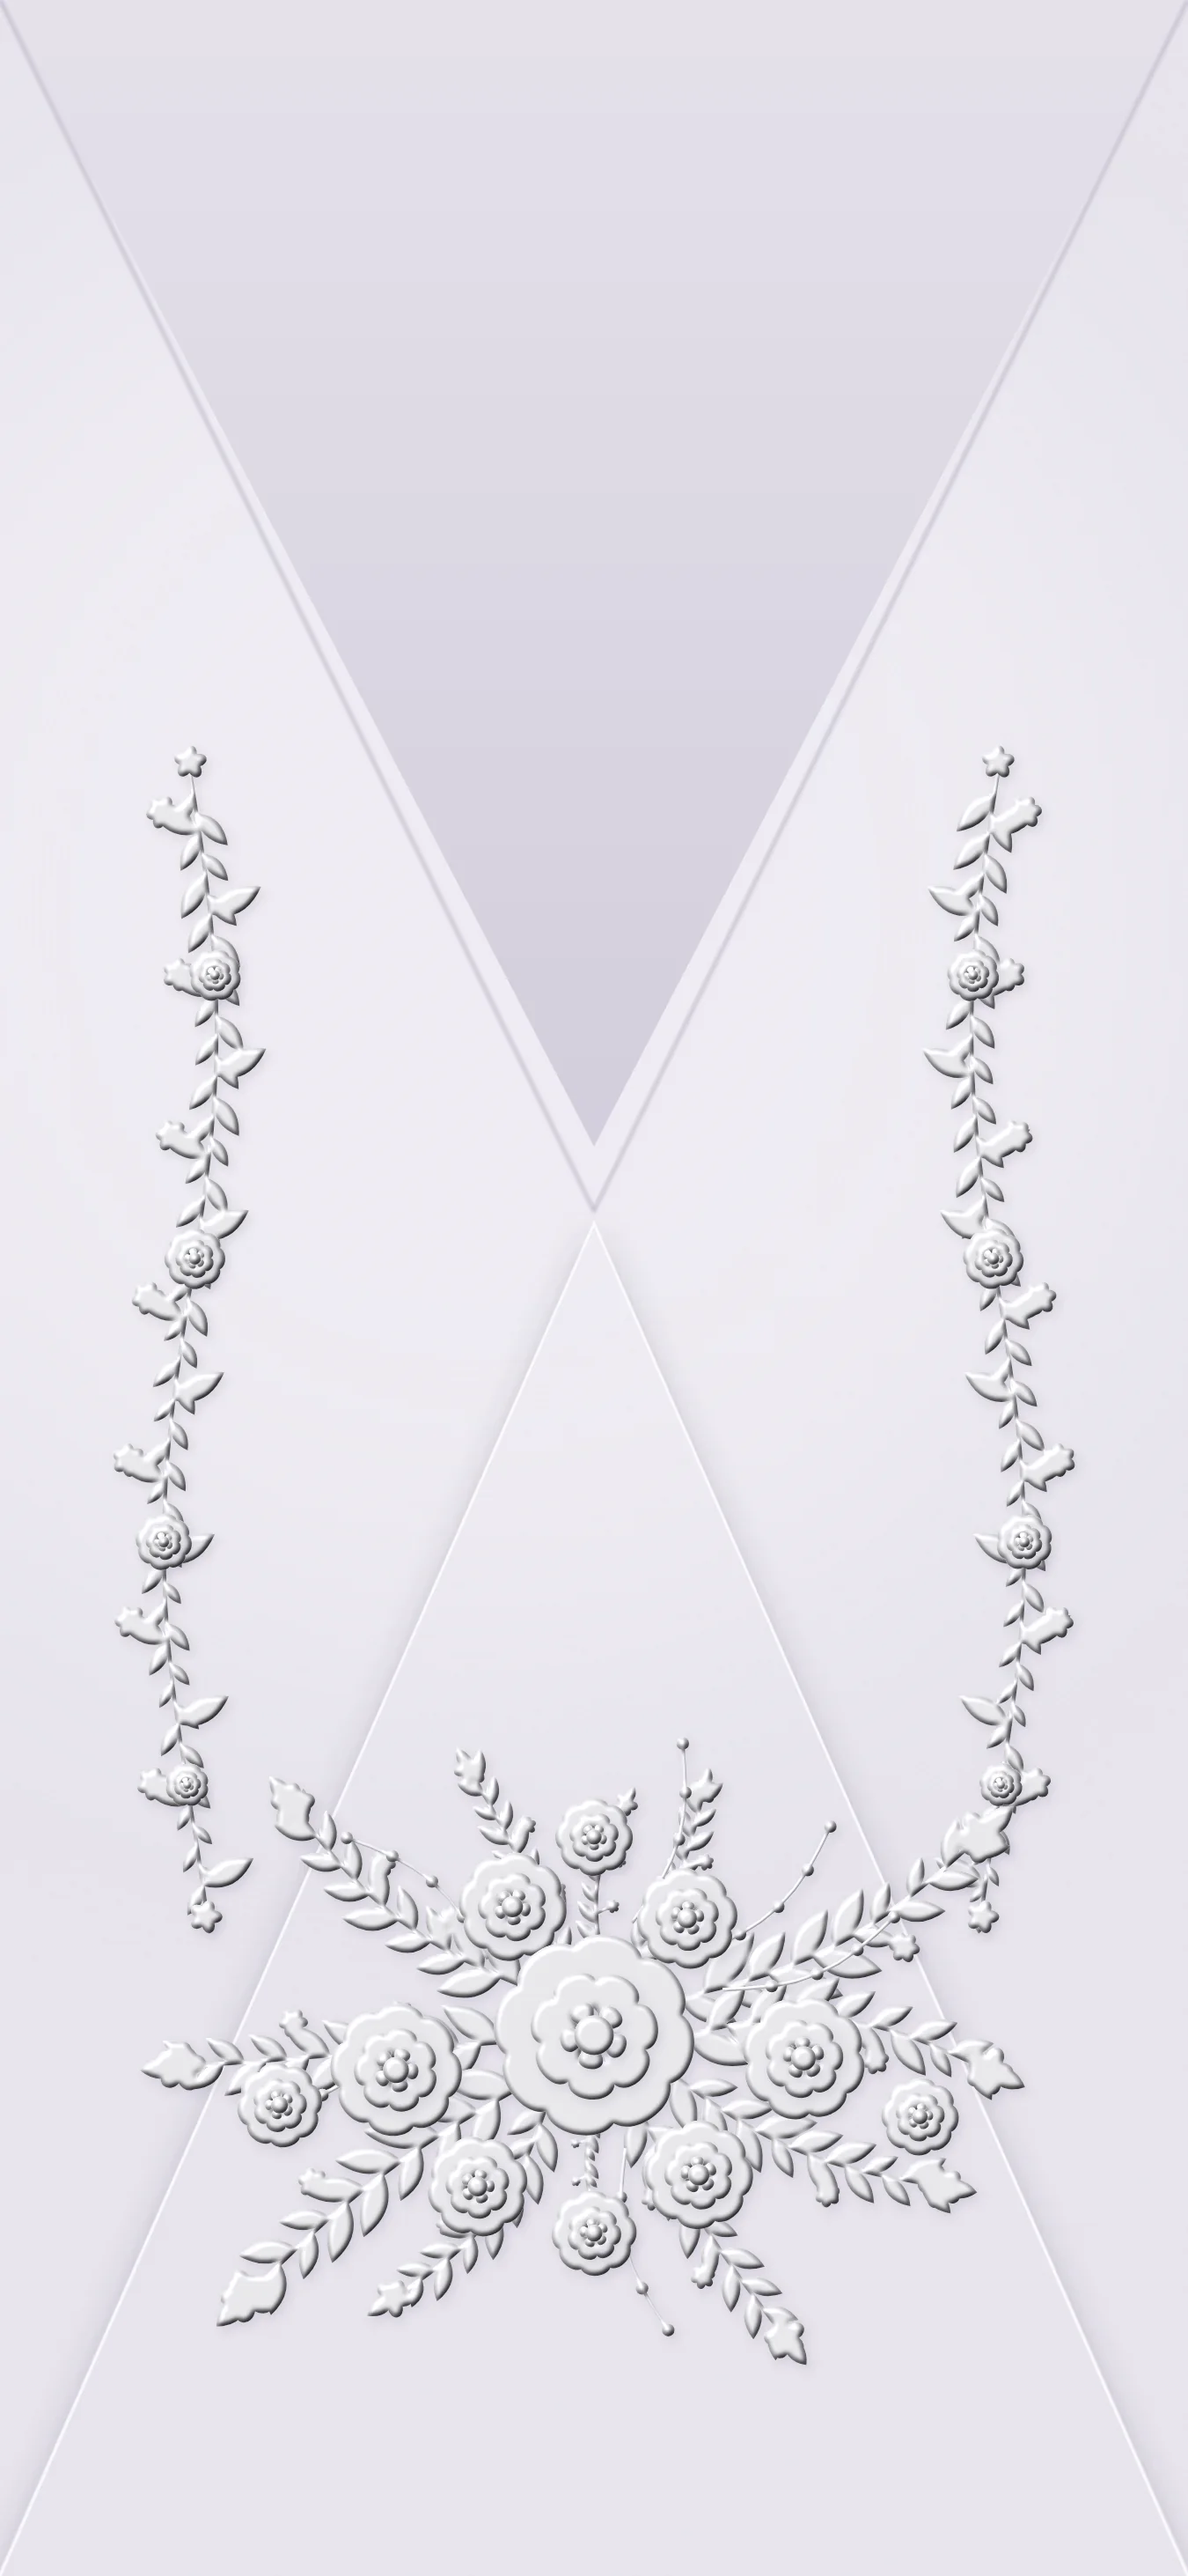
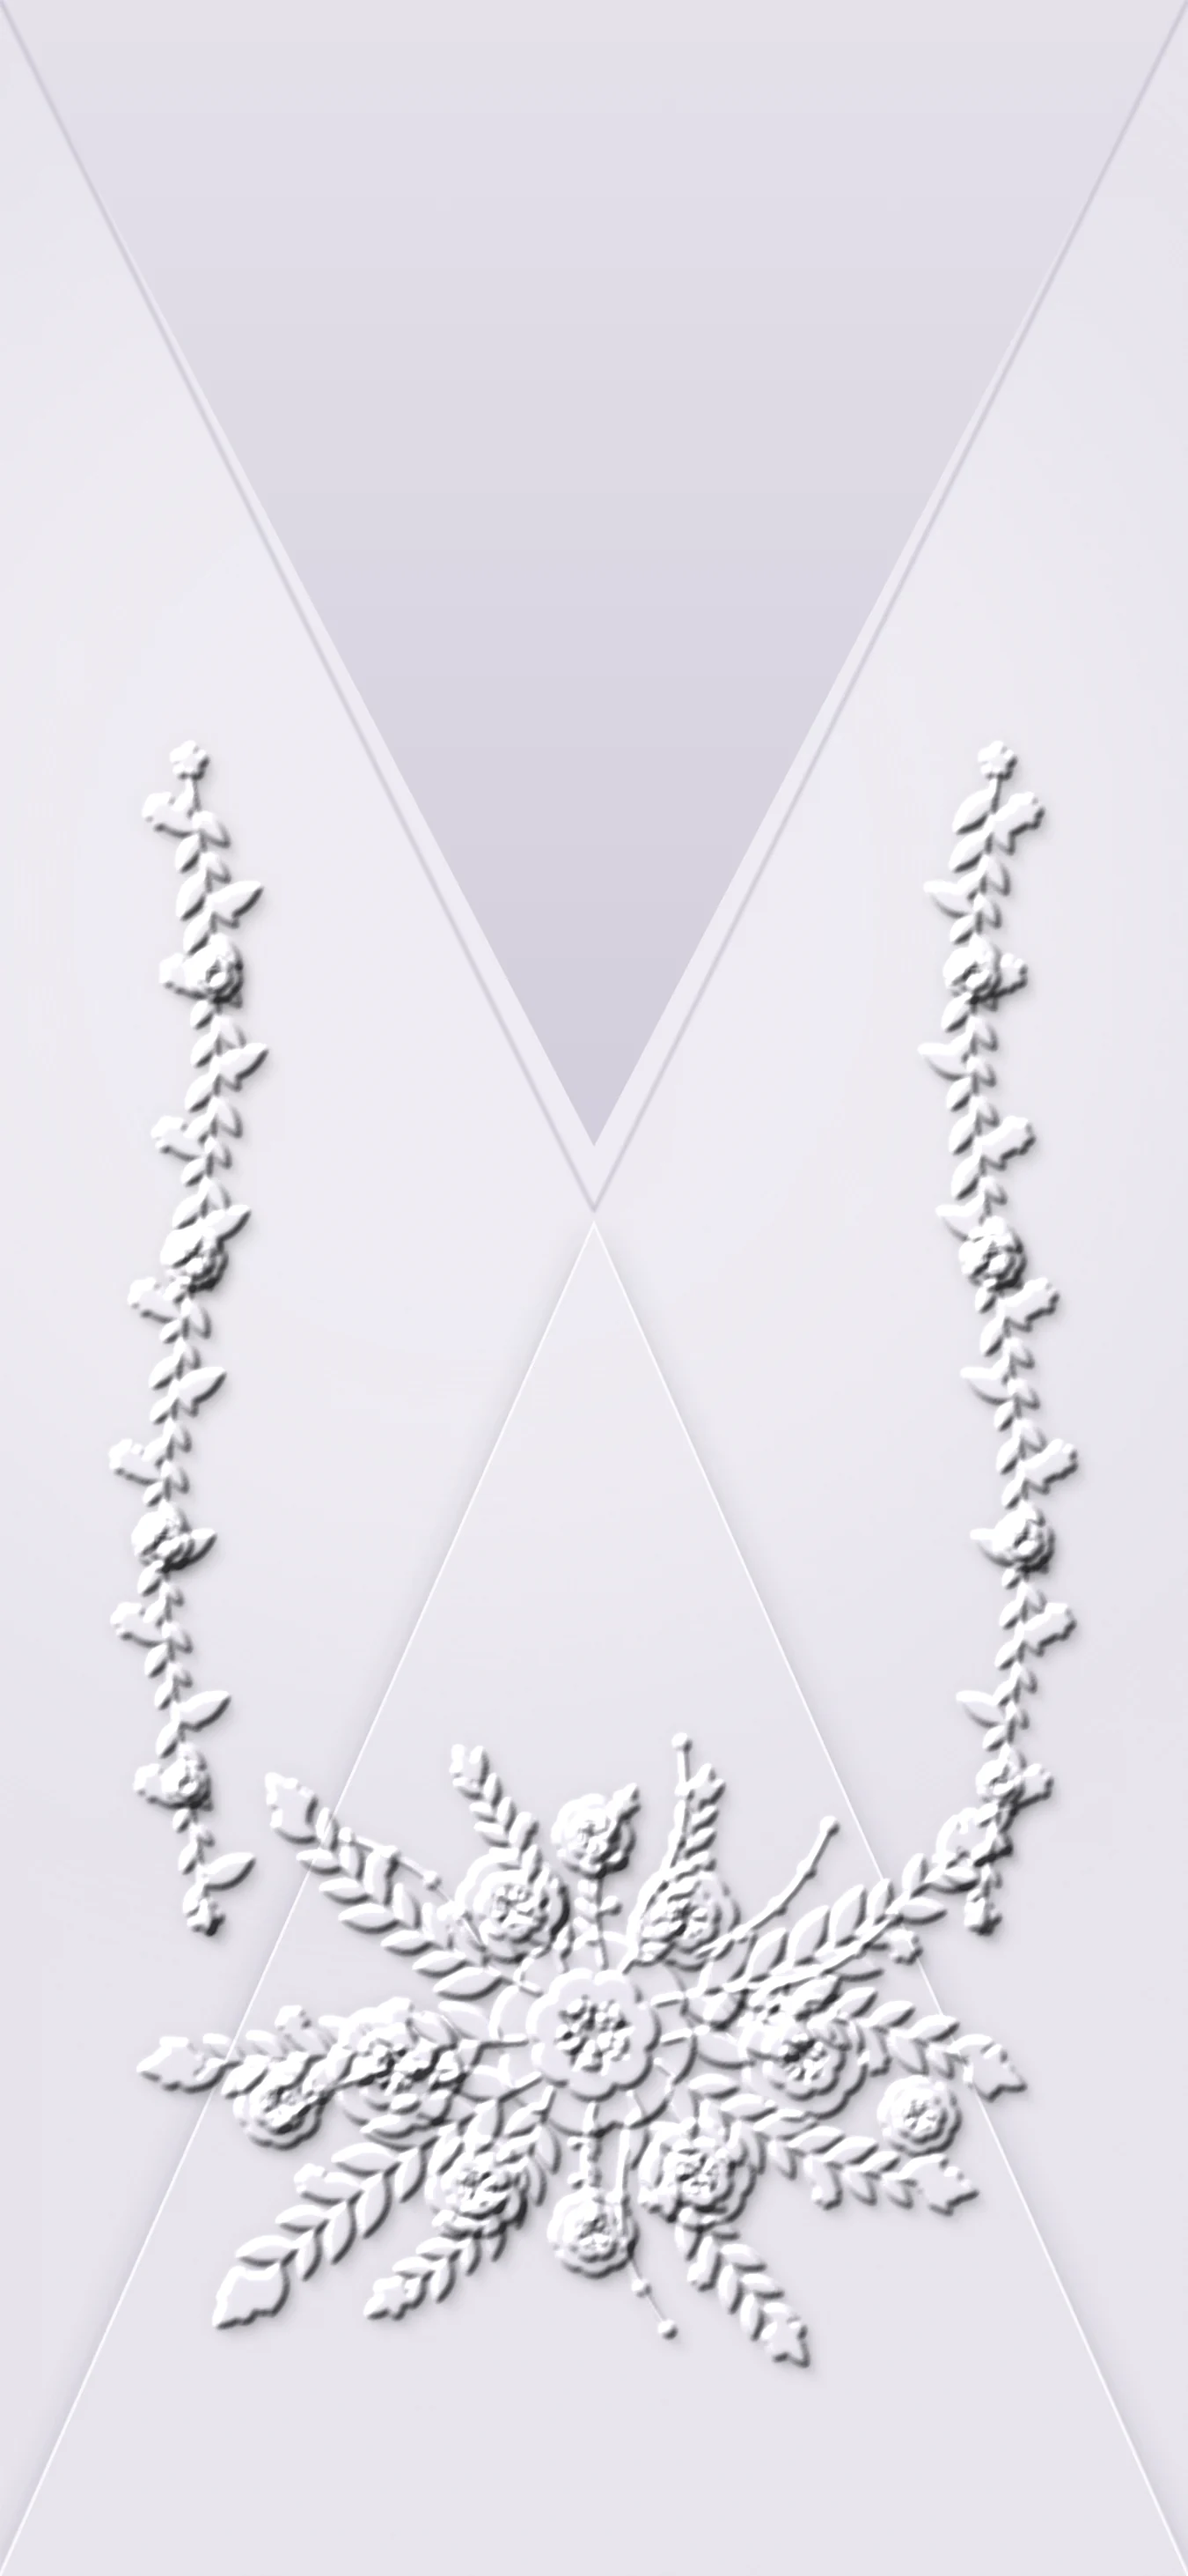
Photoreal paper relief and wax seal; warmer light rays; flap shading
Claude-Session: https://claude.ai/code/session_012TaZ8zuKBP6pkFoWipGzvm

Changed region(s): [[0.0933, 0.28, 0.9022, 0.9333]]

diff --git a/_src/studio2.html b/_src/studio2.html
@@ -78,12 +78,12 @@ if(A==='base'){ // body: side + bottom flaps, florals; top triangle shows envelo
  body+='<polyline points="0,0 '+AX+','+f(H*.47)+' '+W+',0" fill="none" stroke="#b9b2c6" stroke-width="1" filter="url(#crease)"/>';
  body+='<g filter="url(#drop)"><g clip-path="url(#botclip)">'+paper()+'</g></g>';
  body+='<polyline points="0,'+H+' '+AX+','+BY+' '+W+','+H+'" fill="none" stroke="#ffffff" stroke-width="1.1" opacity=".75"/>';
- body+=vine(W*.16,H*.30,H*.74,1)+vine(W*.84,H*.30,H*.74,-1);
- body+=bouquet(W*.5,H*.79,W*.98,true);
+ if(!q.get('nof')){body+=vine(W*.16,H*.30,H*.74,1)+vine(W*.84,H*.30,H*.74,-1);
+ body+=bouquet(W*.5,H*.79,W*.98,true);}
 }
 if(A==='flap'){ // top flap front
  body='<clipPath id="fc"><polygon points="-2,-2 '+(W+2)+',-2 '+AX+','+AY+'"/></clipPath><g filter="url(#drop)"><g clip-path="url(#fc)">'+paper('#ebe8f1')+'</g></g>';
- body+='<g clip-path="url(#fc)">'+bouquet(W*.5,H*.17,W*.84,false)+'</g>';
+ if(!q.get('nof'))body+='<g clip-path="url(#fc)">'+bouquet(W*.5,H*.17,W*.84,false)+'</g>';
  body+='<polyline points="0,0 '+AX+','+AY+' '+W+',0" fill="none" stroke="#ffffff" stroke-width="1.2" opacity=".7"/>';
 }
 if(A==='flapback'){ // inside of top flap
@@ -92,6 +92,8 @@ if(A==='flapback'){ // inside of top flap
 if(A==='glow'){ // bright version of florals for the shimmer
  C.em='#ffffff';var g=vine(W*.16,H*.30,H*.74,1)+vine(W*.84,H*.30,H*.74,-1)+bouquet(W*.5,H*.79,W*.98,true);
  body='<g filter="url(#glow)" opacity=".95">'+g.replace(/filter="url\(#emb\)"/g,'')+'</g>';}
+if(A==='hbase'){body=vine(W*.16,H*.30,H*.74,1)+vine(W*.84,H*.30,H*.74,-1)+bouquet(W*.5,H*.79,W*.98,true)}
+if(A==='hflap'){body=bouquet(W*.5,H*.17,W*.84,false)}
 if(A==='glowflap'){C.em='#ffffff';var g=bouquet(W*.5,H*.17,W*.84,false);body='<g filter="url(#glow)" opacity=".95">'+g.replace(/filter="url\(#emb\)"/g,'')+'</g>'}
 if(A==='seal'){ // white wax seal with gold line wreath
  var cx=W/2,cy=H/2,R=Math.min(W,H)*.42,pts=[];for(var i=0;i<160;i++){var t=i/160*Math.PI*2,k=1+.045*Math.sin(t*6+1)+.03*Math.sin(t*11+2)+.02*Math.sin(t*17);pts.push(f(cx+R*k*Math.cos(t))+' '+f(cy+R*k*.96*Math.sin(t)))}
@@ -147,6 +149,10 @@ if(A==='details'){ // second page: paper with side vines and a small bouquet top
  body=paper()+vine(W*.09,H*.08,H*.92,1)+vine(W*.91,H*.08,H*.92,-1)+bouquet(W*.5,H*.06,W*.6,false)+bouquet(W*.5,H*.95,W*.62,false);
 }
 
+var HMODE=q.get('hm');
+if(HMODE){body=body.replace(/filter="url\(#emb\)"/g,'filter="url(#hf)" style="mix-blend-mode:plus-lighter"').replace(/fill="#f[0-9a-f]{5}"/gi,'fill="#fff"').replace(/stroke="#f[0-9a-f]{5}"/gi,'stroke="#fff"');
+ DEFS=DEFS.replace('</defs>','<filter id="hf" x="-10%" y="-10%" width="120%" height="120%" color-interpolation-filters="linearRGB"><feGaussianBlur in="SourceAlpha" stdDeviation="'+(q.get('hb')||0.9)+'" result="b"/><feFlood flood-color="rgb(46,46,46)"/><feComposite in2="b" operator="in"/></filter></defs>');
+ body='<rect width="'+W+'" height="'+H+'" fill="#000"/>'+body.replace(/<rect width="[^"]+" height="[^"]+" fill="#[0-9a-f]{6}"\/>/gi,'').replace(/<g filter="url\(#drop\)">[\s\S]*?<\/g><\/g>/,'');}
 document.getElementById('out').innerHTML='<svg xmlns="http://www.w3.org/2000/svg" width="'+W+'" height="'+H+'" viewBox="0 0 '+W+' '+H+'">'+DEFS+body+'</svg>';
 document.title='ready';
 </script></body></html>

diff --git a/_src/build3.py b/_src/build3.py
@@ -100,11 +100,12 @@ body.rd{overflow-y:auto}
 #flap .bk{transform:rotateX(180deg)}
 #seal{position:absolute;left:50%;top:44.5%;width:37%;height:auto;transform:translate(-50%,-50%);will-change:transform}
 #rays{position:absolute;left:50%;top:47%;width:260%;aspect-ratio:1;transform:translate(-50%,-50%) scale(.6);opacity:0;pointer-events:none;will-change:transform,opacity;mix-blend-mode:screen;
- background:radial-gradient(circle,#fffdf6 0,#fff1d8b0 3%,#ffe6c050 8%,transparent 16%),repeating-conic-gradient(from 2deg,#ffe8c400 0deg,#ffeccfdd 1.4deg,#ffe8c400 3.4deg,#ffe8c400 7deg,#ffe3b8a0 8.2deg,#ffe8c400 10deg,#ffe8c400 13deg);
+ background:radial-gradient(circle,#fffdf6 0,#ffe9c6c8 3%,#ffd9a860 8%,transparent 16%),repeating-conic-gradient(from 2deg,#ffe8c400 0deg,#ffd9a6ee 1.4deg,#ffe8c400 3.4deg,#ffe8c400 7deg,#ffd59cb8 8.2deg,#ffe8c400 10deg,#ffe8c400 13deg);
  -webkit-mask:radial-gradient(circle,transparent 2%,#000 4%,#000c 14%,#0005 27%,transparent 46%);mask:radial-gradient(circle,transparent 2%,#000 4%,#000c 14%,#0005 27%,transparent 46%)}
 
 #hole{position:absolute;left:0;top:0;width:100%;height:100%;opacity:0;pointer-events:none;will-change:opacity,transform;transform-origin:50% 47%;clip-path:polygon(41% 40%,59% 40%,61.5% 47%,59% 55%,41% 55%,38.5% 47%);background:radial-gradient(ellipse 16% 10% at 50% 47%,#ffffff 0,#f6f8ff 45%,#e2e6fa 100%);filter:blur(1.5px)}
 #wedge{position:absolute;inset:0;opacity:0;pointer-events:none;will-change:opacity;background:linear-gradient(90deg,transparent 22%,#7d769140 38%,transparent 41%,transparent 59%,#7d769140 62%,transparent 78%);clip-path:polygon(0 0,100% 0,62% 47%,100% 100%,0 100%,38% 47%)}
+#fsh{position:absolute;inset:0;opacity:0;pointer-events:none;background:linear-gradient(#0000 20%,#3c35501f 46%);clip-path:polygon(0 0,100% 0,50% 44.5%)}
 #flash{position:fixed;inset:0;margin:0 auto;max-width:460px;background:#fffdf9;opacity:0;pointer-events:none;z-index:15;will-change:opacity}
 .spk{position:absolute;width:14px;height:14px;margin:-7px 0 0 -7px;opacity:0;pointer-events:none;will-change:transform,opacity;background:radial-gradient(circle,#fff 0,#fff 18%,transparent 60%)}
 .spk:before,.spk:after{content:'';position:absolute;left:50%;top:50%;background:linear-gradient(90deg,transparent,#fff,transparent);transform:translate(-50%,-50%)}
@@ -240,7 +241,7 @@ def build(page, lang, asset_prefix='../assets2/', preview_fonts=None):
  <div id="wedge"></div><div id="hole"></div><div id="rays"></div>
  <img class="lay glow" id="g1" src="{A}env-glow.webp" alt="">
  <div id="spks"></div>
- <div id="flap"><div class="fc"><img class="lay" src="{A}env-flap.webp" alt=""><img class="lay glow" id="g2" src="{A}env-glowflap.webp" alt=""><img id="seal" src="{A}seal.webp" alt=""></div><div class="bk"><img class="lay" src="{A}env-flapback.webp" alt=""></div></div>
+ <div id="flap"><div class="fc"><img class="lay" src="{A}env-flap.webp" alt=""><img class="lay glow" id="g2" src="{A}env-glowflap.webp" alt=""><div id="fsh"></div><img id="seal" src="{A}seal.webp" alt=""></div><div class="bk"><img class="lay" src="{A}env-flapback.webp" alt=""></div></div>
 </div><div class="forn" id="forn"></div><div class="hint">{esc(T['hint'])}</div><b id="tagn" hidden></b></div>
 <div id="flash"></div>
 <div id="app">
@@ -292,7 +293,7 @@ function open(user){if(opened)return;if(!ready){want=user;return}opened=true;env
  SP.forEach(function(s,i){var dl=300+Math.random()*2500;an(s,[{opacity:0,transform:'scale(.2) rotate(0deg)'},{opacity:1,transform:'scale(1) rotate(45deg)',offset:.4},{opacity:0,transform:'scale(.3) rotate(90deg)'}],{duration:700+Math.random()*500,delay:dl,easing:'ease-in-out'})});
  // 3. top flap lifts open on its hinge (towards the viewer) carrying the seal
  an(flap,[{transform:'translateZ(1px) rotateX(0deg)'},{transform:'translateZ(1px) rotateX(6deg)',offset:.2},{transform:'translateZ(1px) rotateX(47deg)'}],{duration:2300,delay:3000,easing:'cubic-bezier(.45,0,.25,1)'});
- var hole=$('hole'),wedge=$('wedge');
+ var hole=$('hole'),wedge=$('wedge');an($('fsh'),[{opacity:0},{opacity:1}],{duration:2300,delay:3000,easing:'ease-in'});
  an(wedge,[{opacity:0},{opacity:1}],{duration:1600,delay:3500,easing:'ease-out'});
  an(hole,[{opacity:0,transform:'scaleY(.15)'},{opacity:1,transform:'scaleY(1)'}],{duration:1500,delay:3700,easing:'cubic-bezier(.3,0,.2,1)'});
  // 4. light pours out of the opening
